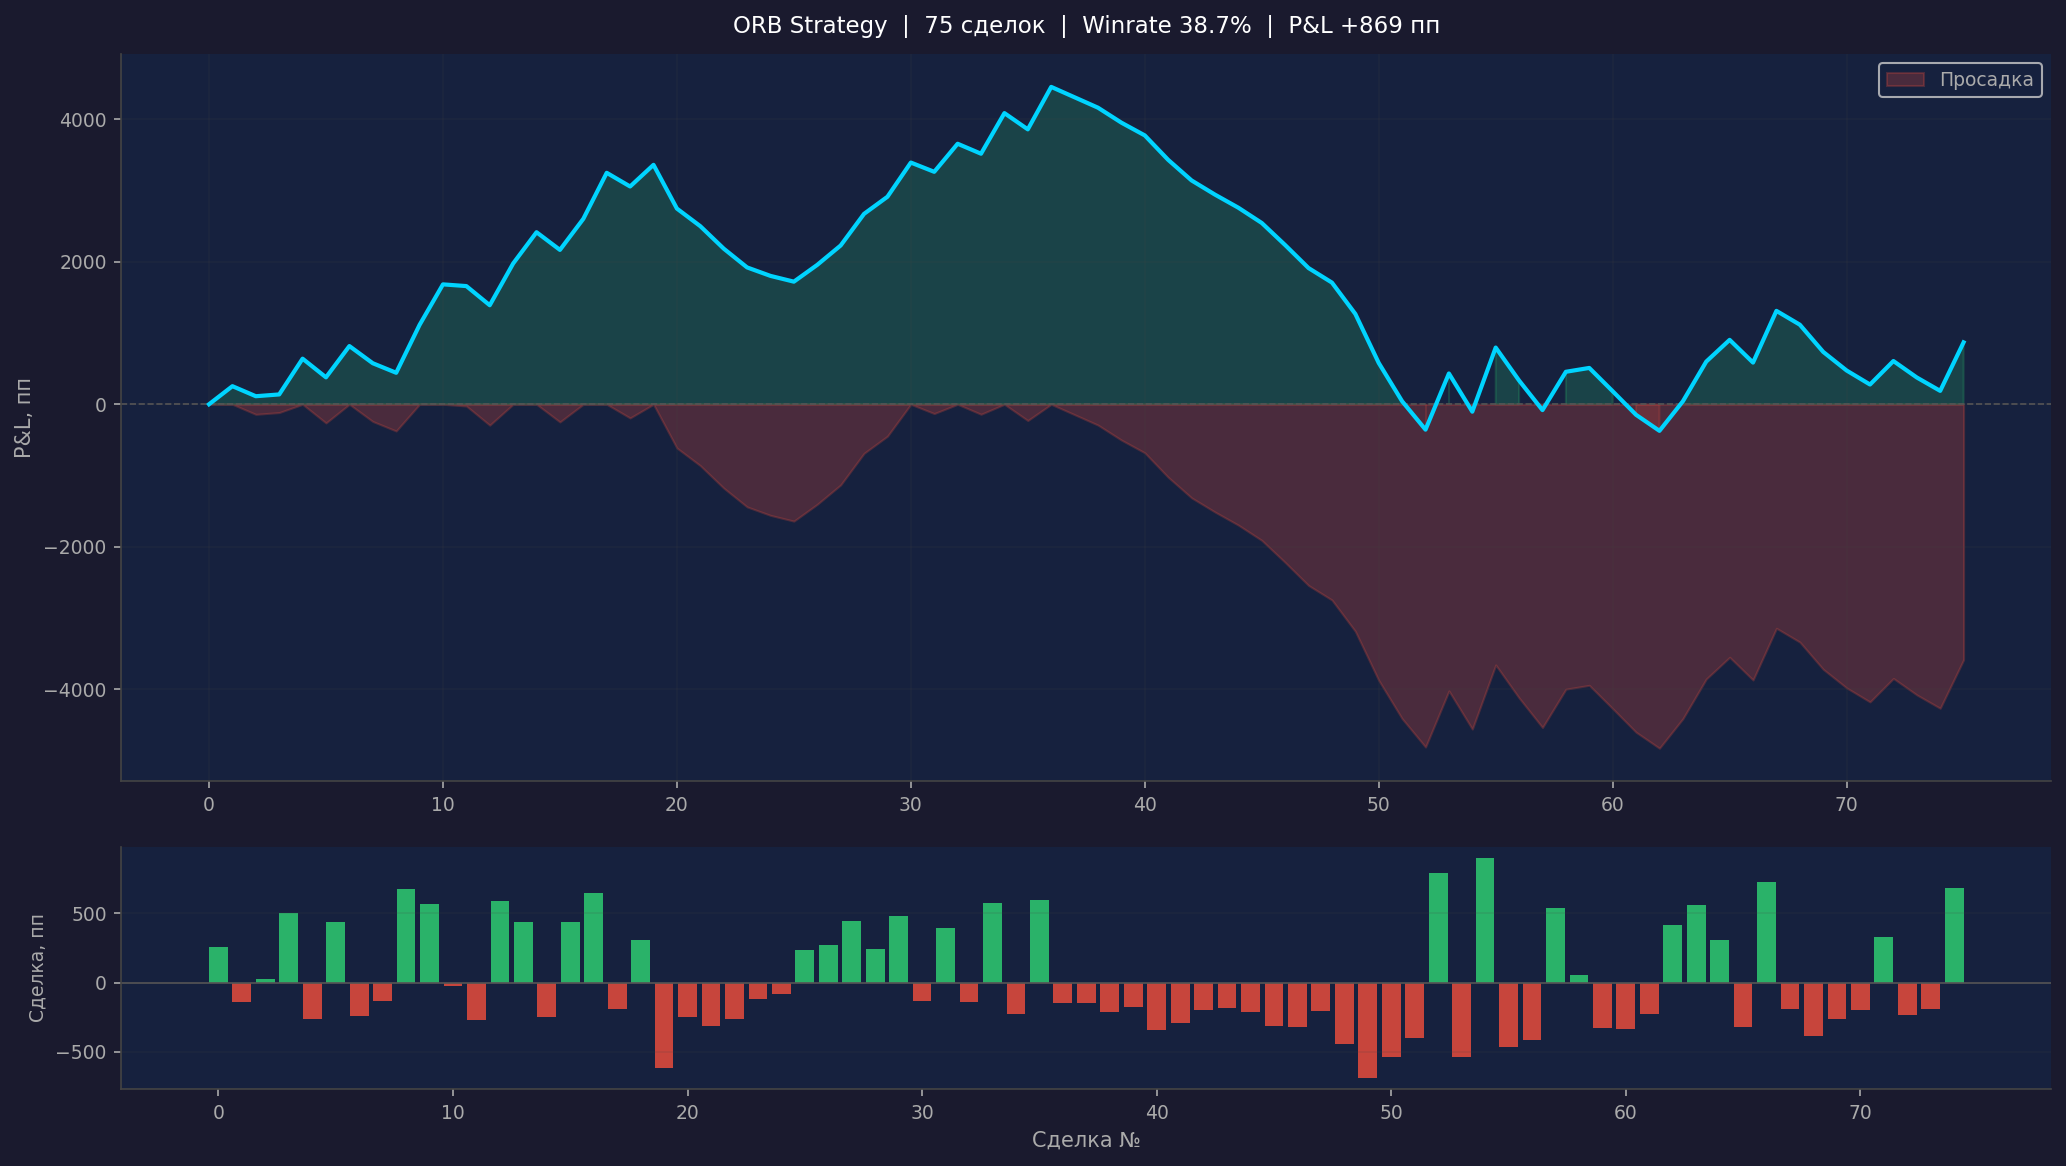
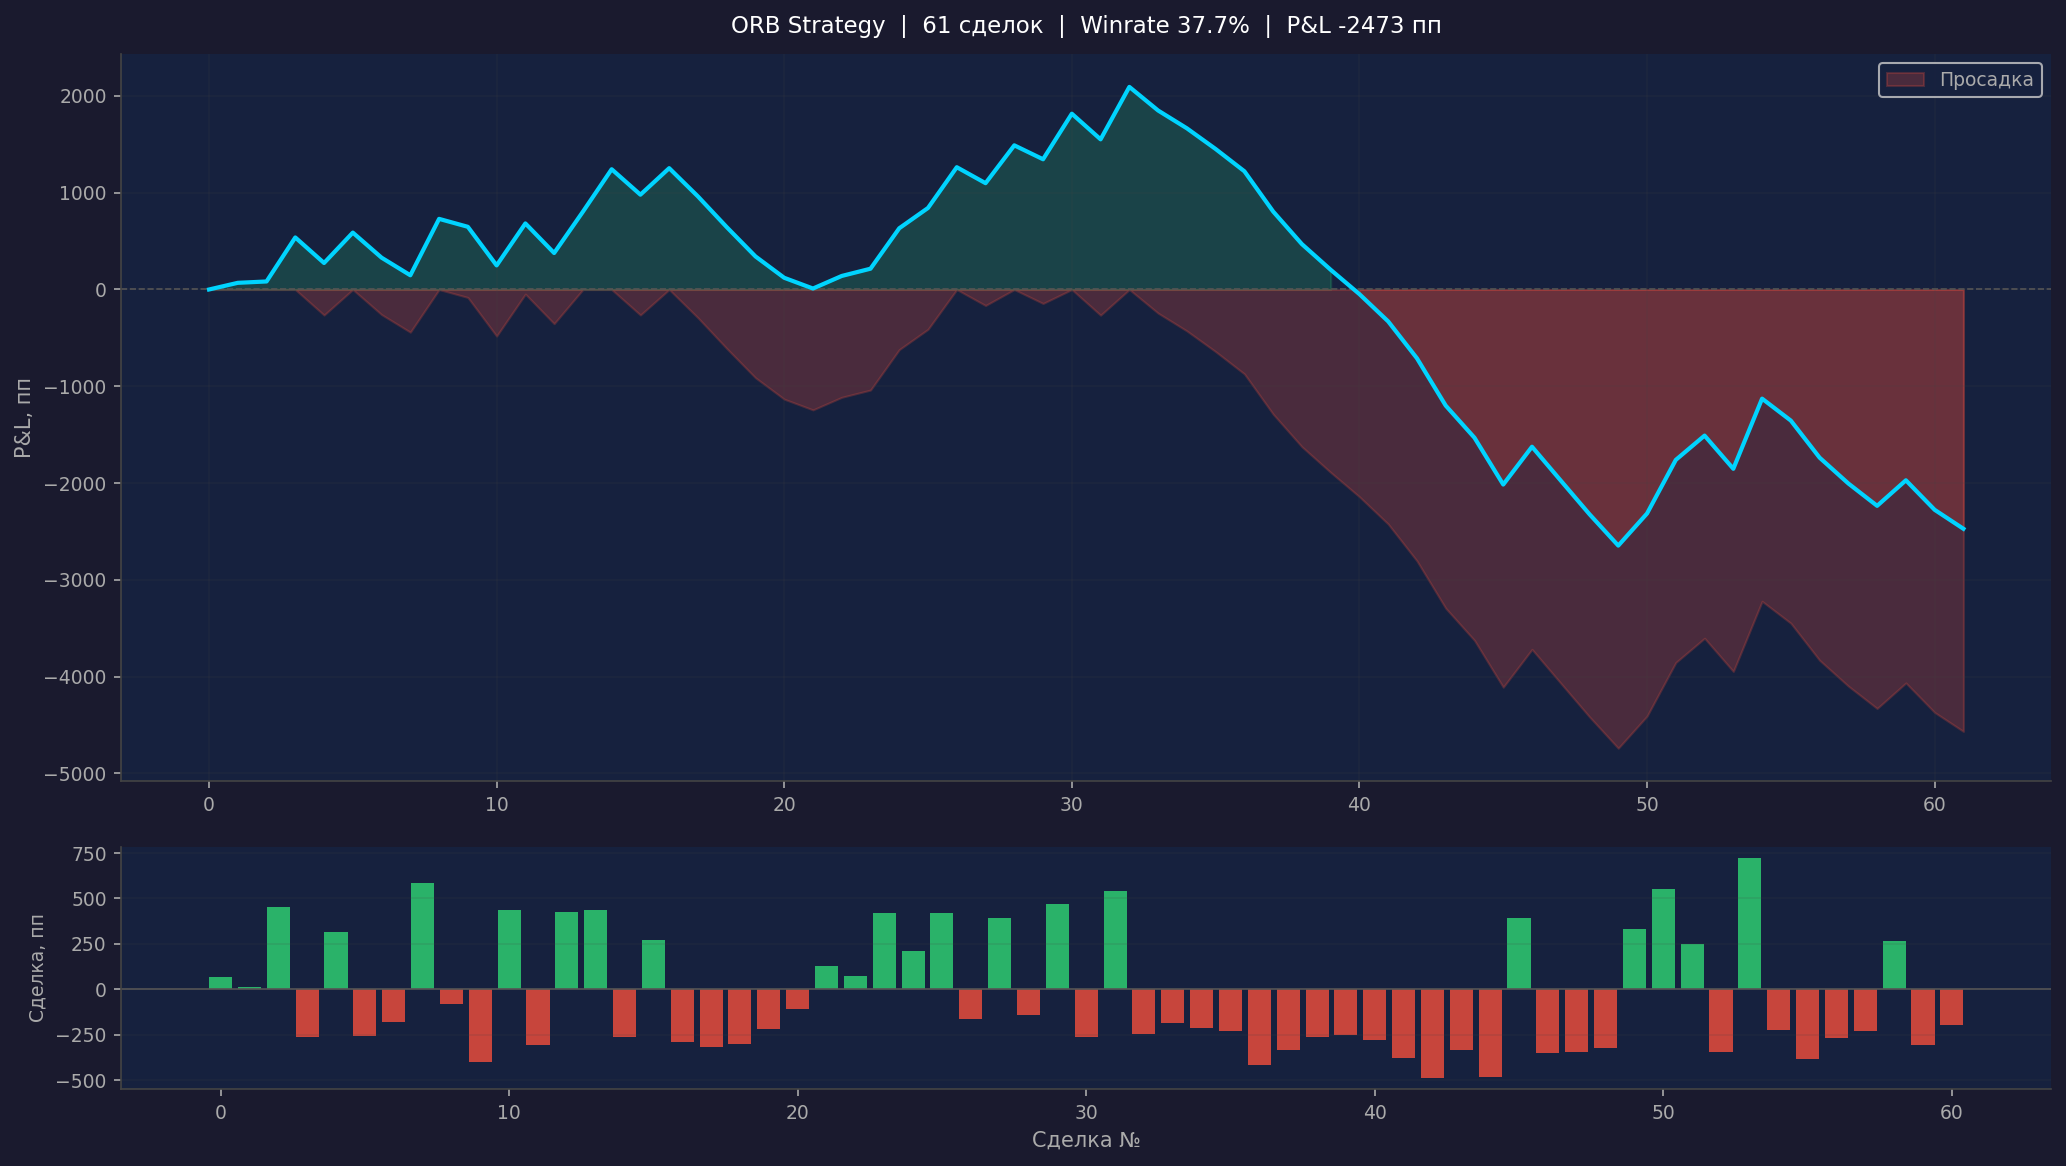
fix: realistic backtest v2 — entry=close, ORB-anchored take, MAX_ORB filter
Three fixes from backtest_analysis.md:
1. MAX_ORB=400 filter in strategy.get_signal() — skip volatile days
2. entry=close instead of orb.high/orb.low — realistic fill price
3. take=orb.high+2*orb.size (not anchored to entry) — classic ORB geometry
4. simulate_trade: stop/take conflict resolved by proximity to candle open

Result: winrate 37.7% (matches theoretical 38%), effective RR ~1.27 vs 2.0
due to entry slippage past ORB boundary. Period Jan–Apr 2026 structurally losing.

diff --git a/backtest/run_backtest.py b/backtest/run_backtest.py
@@ -63,20 +63,34 @@ def simulate_trade(df: pd.DataFrame, sig: Signal, entry_idx: int) -> Trade:
 
     for _, candle in after.iterrows():
         if sig.direction == "long":
-            if candle["low"] <= sig.stop:
+            hit_stop = candle["low"] <= sig.stop
+            hit_take = candle["high"] >= sig.take
+            if hit_stop and hit_take:
+                if abs(candle["open"] - sig.stop) <= abs(candle["open"] - sig.take):
+                    hit_take = False
+                else:
+                    hit_stop = False
+            if hit_stop:
                 pnl = sig.stop - sig.entry
                 return Trade(entry_date, "LONG", sig.entry, sig.stop, sig.take,
                              sig.stop, "loss", pnl)
-            if candle["high"] >= sig.take:
+            if hit_take:
                 pnl = sig.take - sig.entry
                 return Trade(entry_date, "LONG", sig.entry, sig.stop, sig.take,
                              sig.take, "win", pnl)
         else:  # short
-            if candle["high"] >= sig.stop:
+            hit_stop = candle["high"] >= sig.stop
+            hit_take = candle["low"] <= sig.take
+            if hit_stop and hit_take:
+                if abs(candle["open"] - sig.stop) <= abs(candle["open"] - sig.take):
+                    hit_take = False
+                else:
+                    hit_stop = False
+            if hit_stop:
                 pnl = sig.entry - sig.stop
                 return Trade(entry_date, "SHORT", sig.entry, sig.stop, sig.take,
                              sig.stop, "loss", pnl)
-            if candle["low"] <= sig.take:
+            if hit_take:
                 pnl = sig.entry - sig.take
                 return Trade(entry_date, "SHORT", sig.entry, sig.stop, sig.take,
                              sig.take, "win", pnl)

diff --git a/src/strategy.py b/src/strategy.py
@@ -6,6 +6,7 @@ import pandas as pd
 SESSION_OPEN_UTC_HOUR = 7
 ORB_CANDLES = 2        # первые 2 свечи M5 формируют диапазон
 RR = 2.0               # соотношение риск/прибыль
+MAX_ORB = 400          # максимальный размер ORB в пунктах
 
 
 @dataclass
@@ -63,6 +64,8 @@ def get_signal(df: pd.DataFrame, candle_idx: int = -1) -> Signal | None:
     orb = opening_range(df)
     if orb is None:
         return None
+    if orb.size > MAX_ORB:
+        return None
 
     open_ts = _session_open(df)
     orb_end = open_ts + pd.Timedelta(minutes=5 * ORB_CANDLES)
@@ -81,25 +84,17 @@ def get_signal(df: pd.DataFrame, candle_idx: int = -1) -> Signal | None:
 
     # Лонг: пробой вверх И цена выше VWAP
     if close > orb.high and close > current_vwap:
-        entry = orb.high
+        entry = close
         stop = orb.low
-        return Signal(
-            direction="long",
-            entry=entry,
-            stop=stop,
-            take=entry + RR * (entry - stop),
-        )
+        take = orb.high + RR * (orb.high - orb.low)
+        return Signal(direction="long", entry=entry, stop=stop, take=take)
 
     # Шорт: пробой вниз И цена ниже VWAP
     if close < orb.low and close < current_vwap:
-        entry = orb.low
+        entry = close
         stop = orb.high
-        return Signal(
-            direction="short",
-            entry=entry,
-            stop=stop,
-            take=entry - RR * (orb.high - entry),
-        )
+        take = orb.low - RR * (orb.high - orb.low)
+        return Signal(direction="short", entry=entry, stop=stop, take=take)
 
     return None
 
